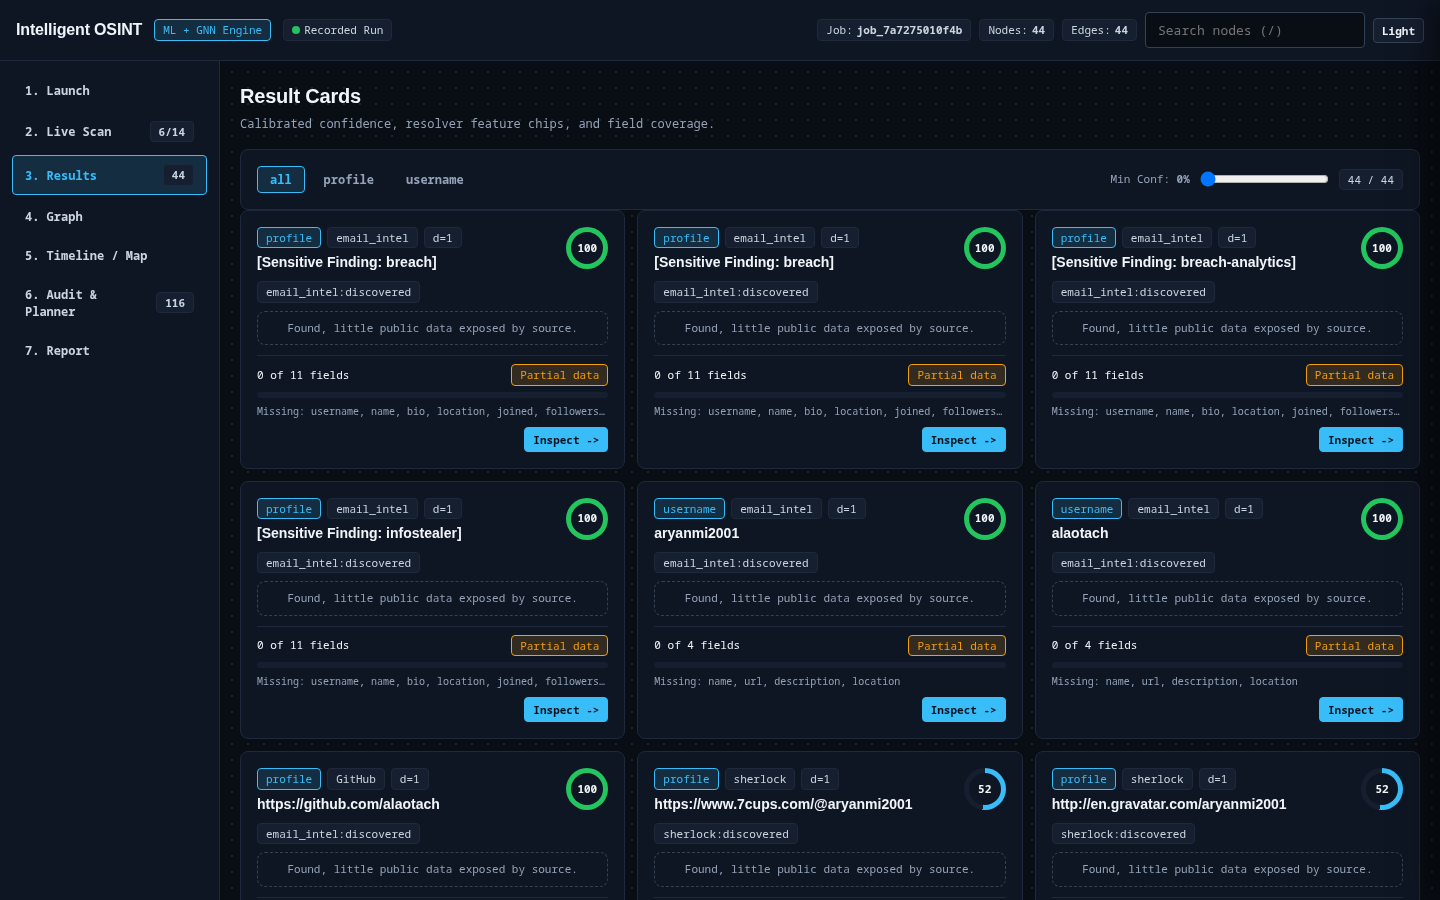
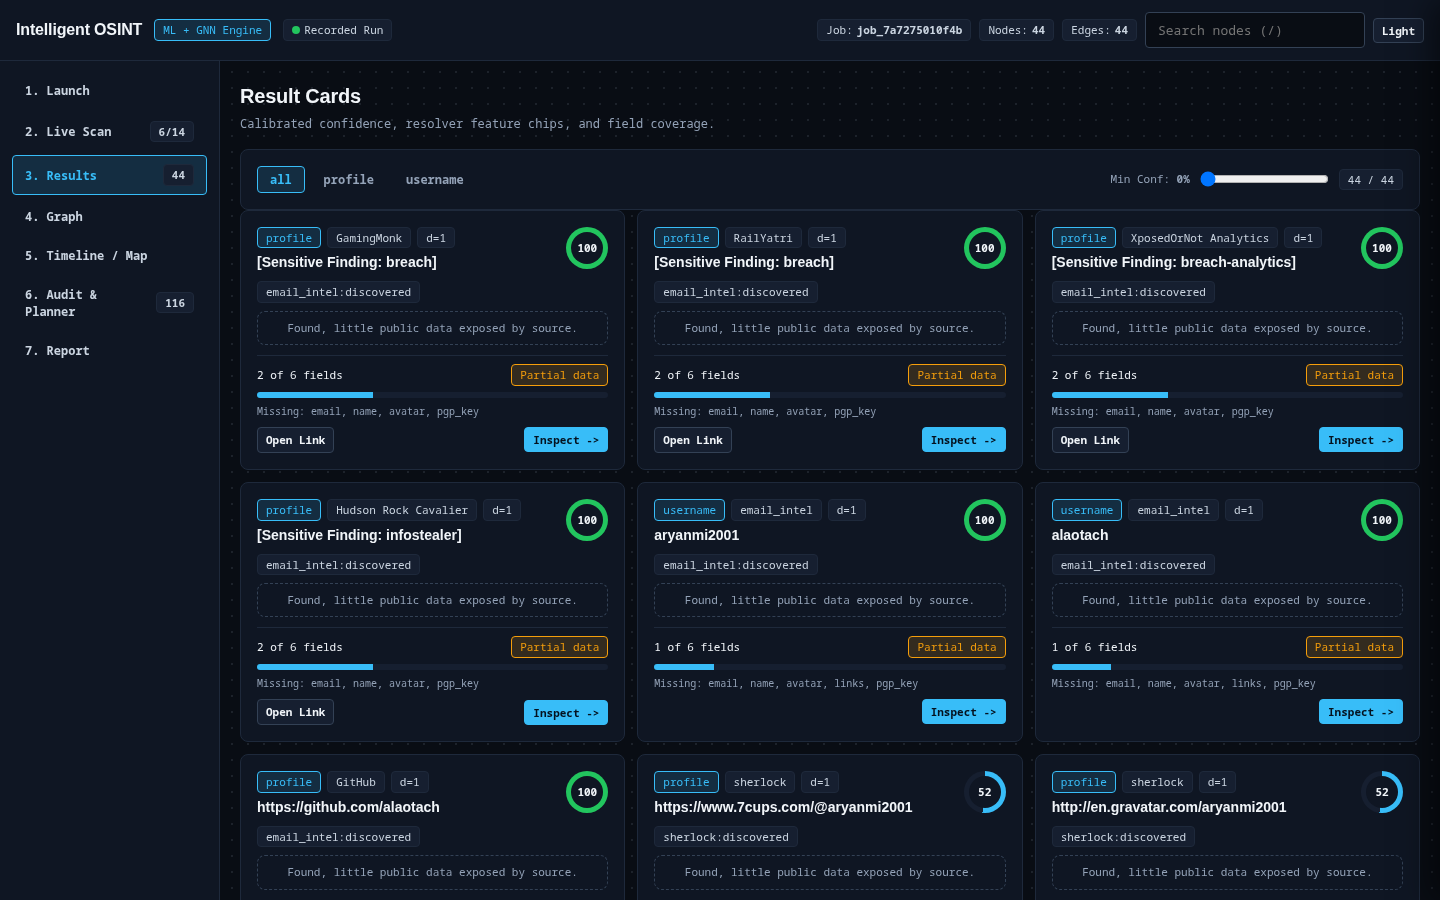
Fix recorded-run profile_discovered merging and collector-specific field coverage (no more 0/11)

diff --git a/static/js/launch_scan.js b/static/js/launch_scan.js
@@ -413,14 +413,27 @@
       window.OSINT_STATE.jobId = run.file.replace("audit_", "").replace(".jsonl", "");
       window.OSINT_STATE.auditEvents = [];
       const nodesMap = {};
+      const discoveredMeta = {};
       const edgesList = [];
       document.getElementById("header-job-id").textContent = window.OSINT_STATE.jobId;
       (run.events || []).forEach((ev) => {
         handleEvent(ev);
-        if (ev.event === "hit_evaluated" && ev.details) {
+        if (ev.event === "profile_discovered" && ev.details && ev.details.url) {
+          const pd = ev.details;
+          discoveredMeta[pd.url] = {
+            site: pd.site || "",
+            url: pd.url,
+            username: pd.username || "",
+          };
+          const id = `profile:${pd.url}`;
+          if (nodesMap[id]) {
+            Object.assign(nodesMap[id].data.attributes, discoveredMeta[pd.url]);
+          }
+        } else if (ev.event === "hit_evaluated" && ev.details) {
           const d = ev.details;
           const id = `${d.discovered_type || "node"}:${d.discovered_value}`;
           const meta = d.metadata || {};
+          const disc = discoveredMeta[d.discovered_value] || {};
           if (!nodesMap[id]) {
             nodesMap[id] = {
               data: {
@@ -430,7 +443,7 @@
                 confidence: Number(d.child_confidence ?? d.resolver_score ?? 0.5),
                 depth: 1,
                 provenance: [`${d.tool || "collector"}:discovered`],
-                attributes: { ...meta, source_tool: d.tool || "", resolver_score: d.resolver_score },
+                attributes: { ...disc, ...meta, source_tool: d.tool || "", resolver_score: d.resolver_score },
               },
             };
           }
@@ -444,16 +457,6 @@
               source_tool: d.tool || "unknown",
             },
           });
-        } else if (ev.event === "profile_discovered" && ev.details && ev.details.url) {
-          const pd = ev.details;
-          const id = `profile:${pd.url}`;
-          if (nodesMap[id]) {
-            Object.assign(nodesMap[id].data.attributes, {
-              site: pd.site || nodesMap[id].data.attributes.site,
-              url: pd.url,
-              username: pd.username || nodesMap[id].data.attributes.username,
-            });
-          }
         }
       });
       window.OSINT_STATE.nodes = Object.values(nodesMap);

diff --git a/static/js/results.js b/static/js/results.js
@@ -24,17 +24,35 @@
 
   function computeCoverageClient(nodeData) {
     if (nodeData.field_coverage) return nodeData.field_coverage;
-    const attrs = nodeData.attributes || {};
-    const expected = nodeData.type === "profile"
+    const attrs = { ...(nodeData.attributes || {}) };
+    if (String(nodeData.label || "").startsWith("http") && !attrs.url) {
+      attrs.url = nodeData.label;
+    }
+    if (nodeData.type === "username" && nodeData.label && !attrs.username) {
+      attrs.username = nodeData.label;
+    }
+    const srcTool = attrs.source_tool || "";
+    const collectorMeta = (window.OSINT_COLLECTORS || []).find((c) => c.name === srcTool);
+    const expected = collectorMeta?.expected_fields?.length
+      ? collectorMeta.expected_fields
+      : nodeData.type === "profile"
       ? ["username", "name", "bio", "location", "joined", "followers", "links", "avatar", "banner", "orgs", "activity_dates"]
       : nodeData.type === "domain"
       ? ["domain", "registrar", "created", "nameservers", "ip"]
       : nodeData.type === "email"
       ? ["email", "username", "name", "links"]
       : ["name", "url", "description", "location"];
+    const aliasMap = {
+      name: [attrs.name, attrs.display_name, attrs.title],
+      links: [attrs.links, attrs.linked_urls, attrs.website, attrs.url],
+      avatar: [attrs.avatar, attrs.avatar_url],
+      banner: [attrs.banner, attrs.banner_url],
+      joined: [attrs.joined, attrs.created_at, attrs.created],
+      activity_dates: [attrs.activity_dates, attrs.updated_at, attrs.last_active, attrs.published_date],
+    };
     const present = expected.filter((f) => {
-      const v = attrs[f] ?? attrs[f + "_url"] ?? (f === "links" ? attrs.linked_urls || attrs.website : null);
-      return v !== undefined && v !== null && v !== "" && (!Array.isArray(v) || v.length > 0);
+      const cands = aliasMap[f] || [attrs[f]];
+      return cands.some((v) => v !== undefined && v !== null && v !== "" && (!Array.isArray(v) || v.length > 0));
     });
     const missing = expected.filter((f) => !present.includes(f));
     return {
